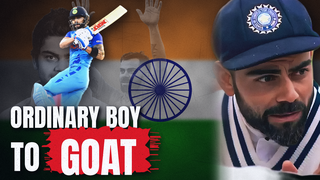
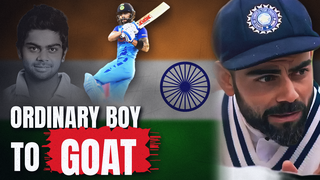
GOAT v2 thumbnail: give each photo its own space, move the Chakra into the gap
Claude-Session: https://claude.ai/code/session_01SQh72PYSr2UGL5osbLDTTd

Changed region(s): [[0.0, 0.0, 0.6562, 0.6944]]

diff --git a/virat_story/thumb_goat_v2.py b/virat_story/thumb_goat_v2.py
@@ -1,8 +1,8 @@
 #!/usr/bin/env python3
 """1920x1080 thumbnail, v2: "From an Ordinary Boy to the GOAT: The Virat Kohli Story".
 
-Gritty tricolour look: textured saffron / white (Ashoka Chakra) / green background, a faded duotone
-collage of Virat's journey on the left (young Virat, today's Virat) with one full-colour action shot,
+Gritty tricolour look: textured saffron / white (Ashoka Chakra) / green background, young Virat
+faded on the far left and one full-colour action shot beside him, each in its own space,
 a huge intense close-up on the right, and distressed ORDINARY BOY / TO / GOAT (on a red brush block).
 
     python3 thumb_goat_v2.py  ->  thumb_goat_v2.png / .jpg / _small.png
@@ -47,7 +47,7 @@ def flag_background():
     # Ashoka Chakra, behind the centre
     ch = Image.new("RGBA", (W, H), (0, 0, 0, 0))
     d = ImageDraw.Draw(ch)
-    cx, cy, r = 960, 540, 190
+    cx, cy, r = 1110, 520, 150  # in the gap between the six and the close-up
     navy = (0, 0, 128, 255)
     d.ellipse((cx - r, cy - r, cx + r, cy + r), outline=navy, width=16)
     d.ellipse((cx - 30, cy - 30, cx + 30, cy + 30), fill=navy)
@@ -162,18 +162,18 @@ def brush_box(base, box, color=RED):
 def main():
     base = flag_background()
 
-    # LEFT - faded memories: young Virat and today's Virat behind, one colour action shot in front
-    yb = duotone(regrade(load_cut("cut_young.png", 720), contrast=1.2), opacity=0.5)
-    yb = edge_fade(fade_bottom(yb, 420, 700), left=60)
-    base.alpha_composite(yb, (-40, 40))
-    gt = duotone(regrade(load_cut("cut_goat.png", 820), contrast=1.2), opacity=0.42)
-    gt = fade_bottom(gt, 380, 760)
-    base.alpha_composite(gt, (430, -40))
+    # LEFT - the start: young Virat, faded, in his own space (face only, cropped from the shoulders)
+    yb = load_cut("cut_young.png", 640)
+    yb = yb.crop((int(yb.width * 0.16), 0, int(yb.width * 0.86), yb.height))
+    yb = duotone(regrade(yb, contrast=1.2), opacity=0.62)
+    yb = edge_fade(fade_bottom(yb, 380, 600), left=50, right=70)
+    base.alpha_composite(yb, (10, 20))
 
-    sx = load_cut(os.path.join("..", "virat_82", "cut_six.png"), 700)
+    # MIDDLE - the journey: the six, in full colour, clear of both faces
+    sx = load_cut(os.path.join("..", "virat_82", "cut_six.png"), 640)
     sx = regrade(sx, color=1.2, contrast=1.15, bright=1.05, sharpen=(1.0, 60, 1))
-    sx = fade_bottom(sx, 470, 680)
-    place(base, sx, 330 - sx.width // 2 + 150, 30, rim_color=(255, 200, 120), rim_side=1, rim_k=0.4, shadow=0.7)
+    sx = fade_bottom(sx, 430, 620)
+    place(base, sx, 500, 10, rim_color=(255, 200, 120), rim_side=1, rim_k=0.4, shadow=0.7)
 
     # RIGHT - the GOAT, huge and intense
     fc = load_cut("cut_face.png", 1180)
